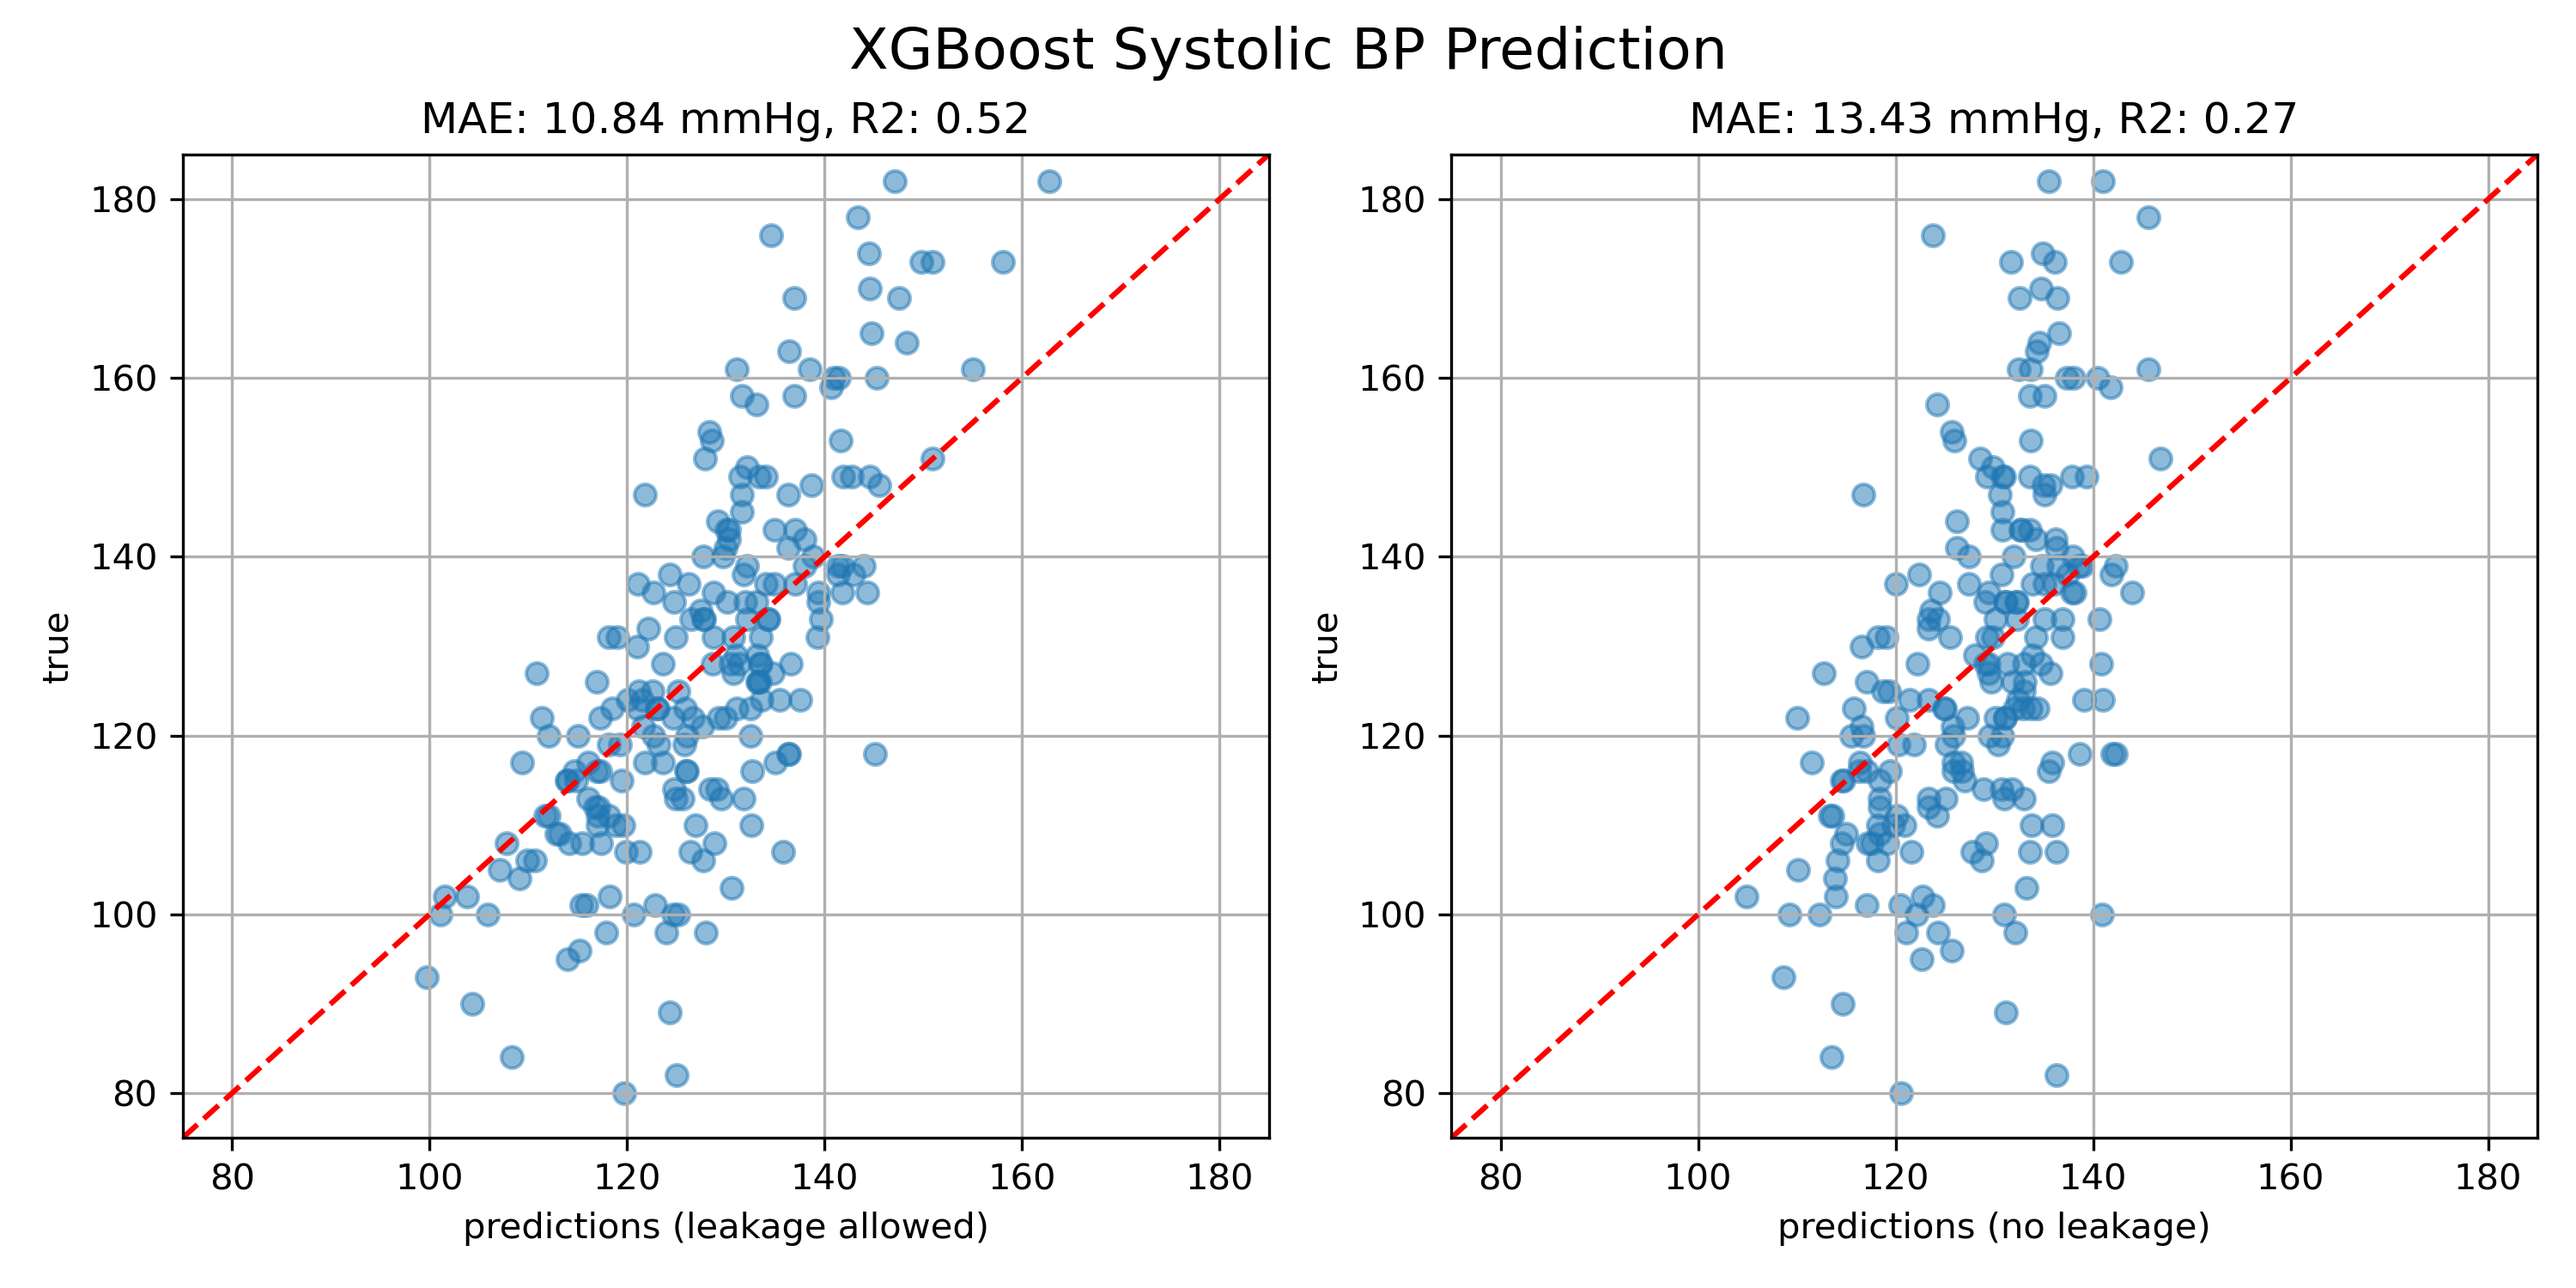
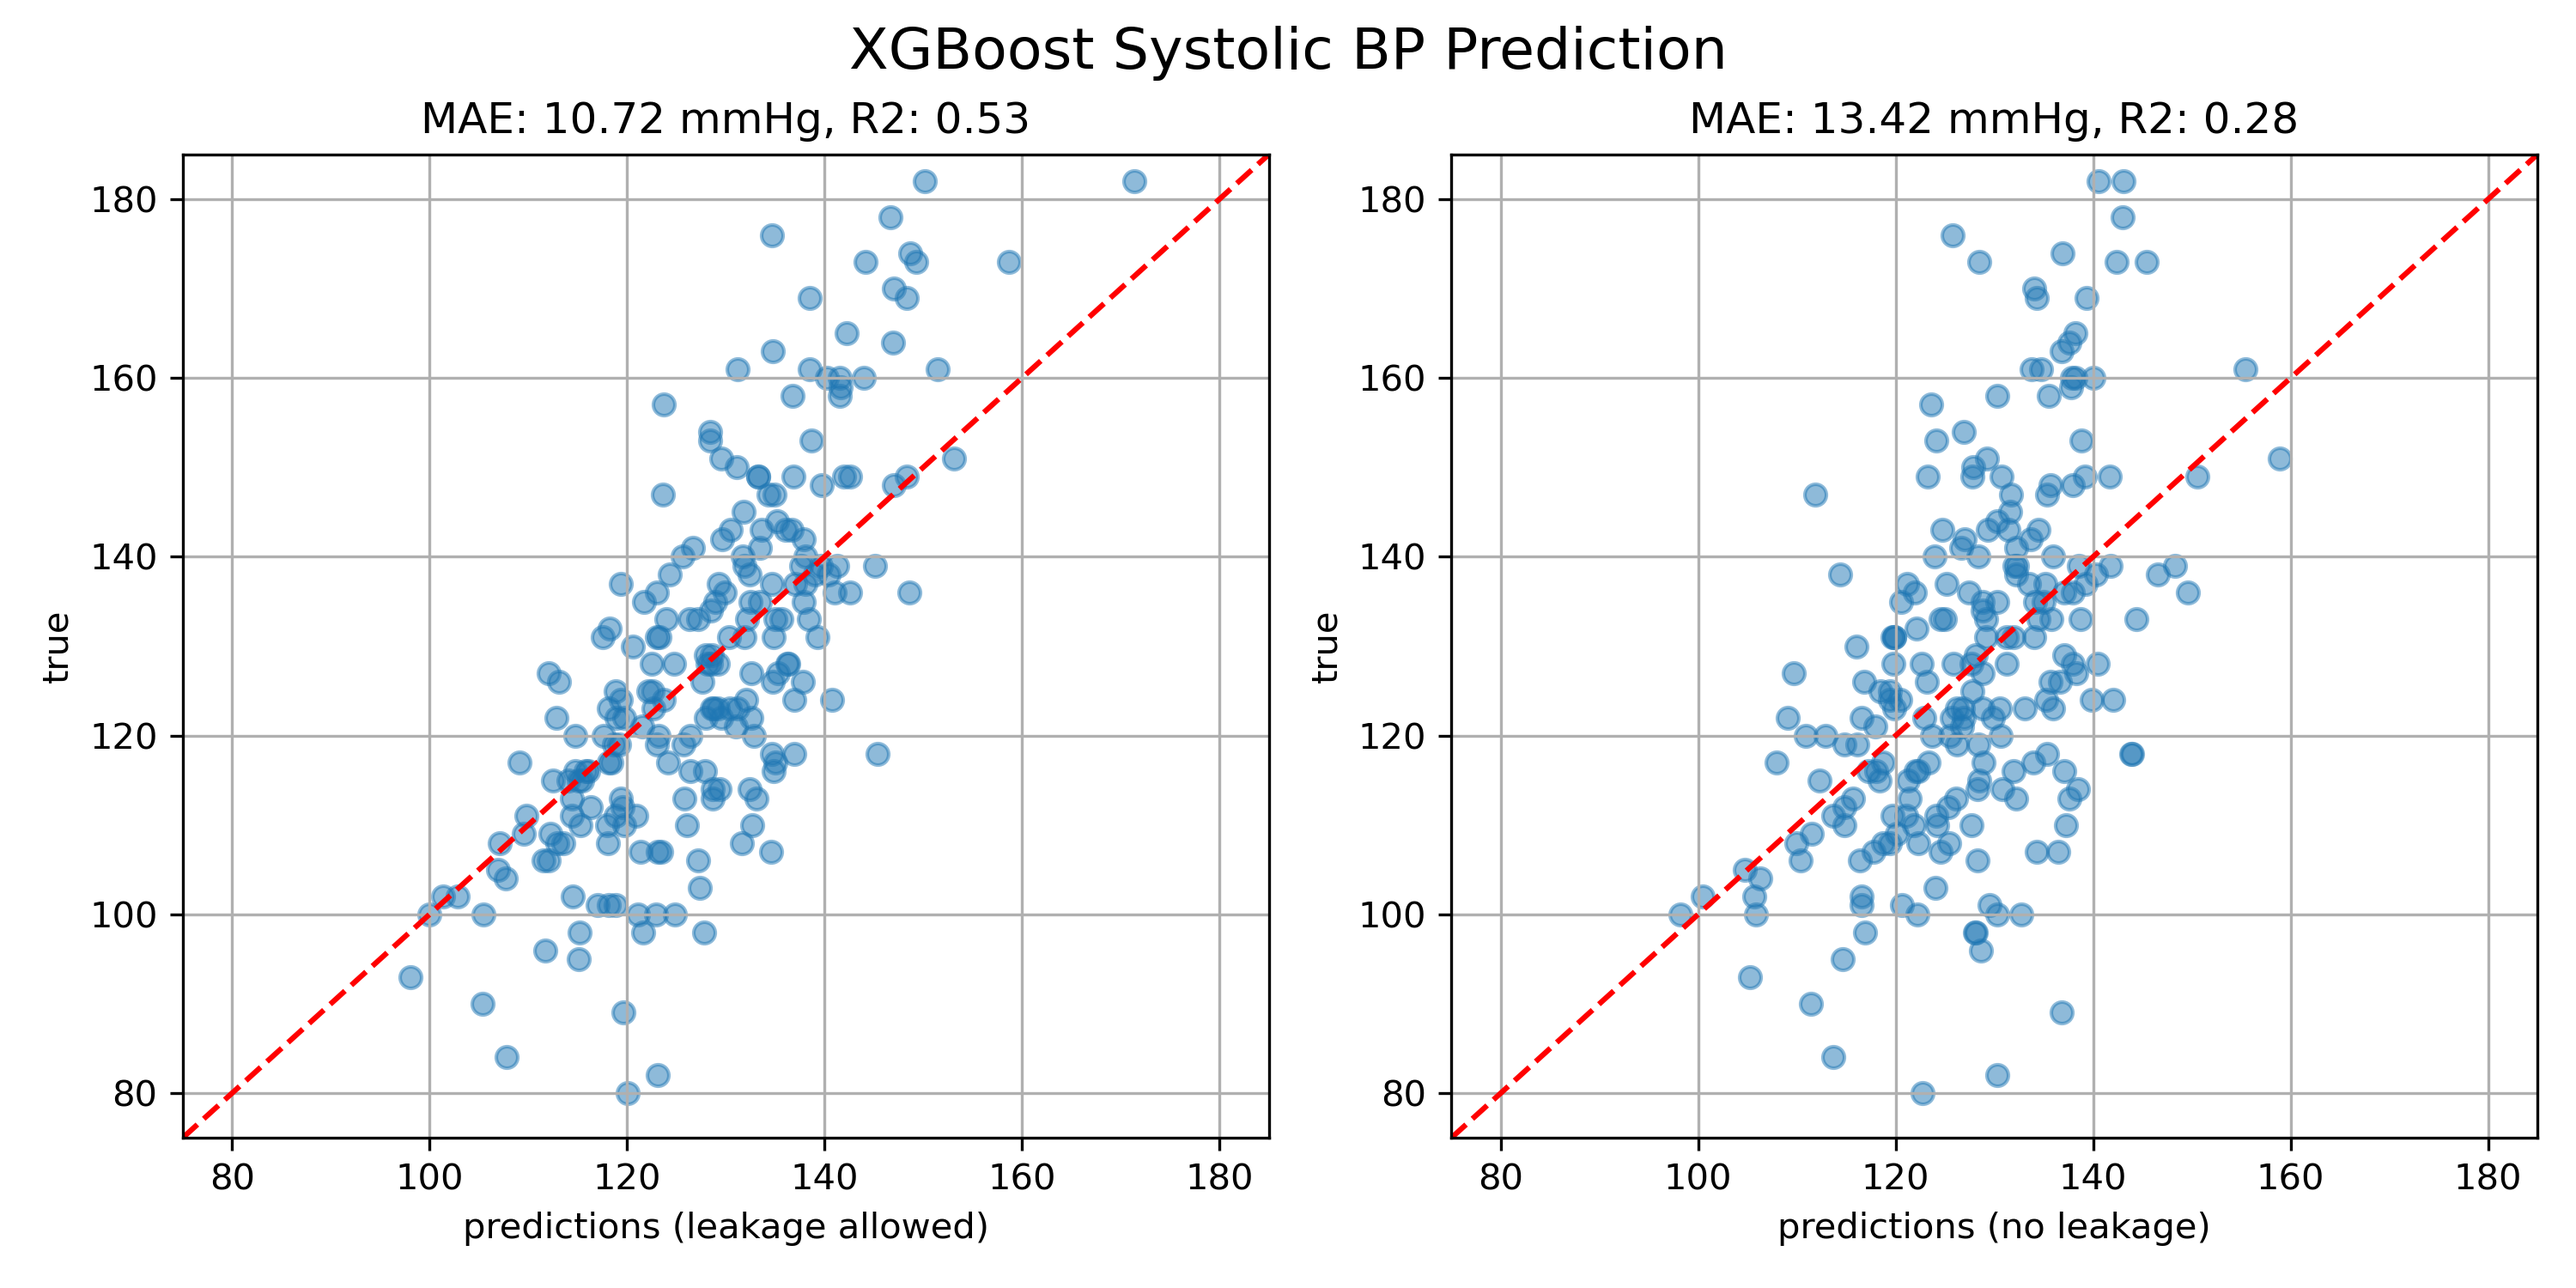
update post

diff --git a/content/blog/ppg-blood-pressure/index.md b/content/blog/ppg-blood-pressure/index.md
@@ -23,26 +23,47 @@ tags:
 
 PPG signals are collected from optical sensors on smart watches and pulse oximeters to measure heart rate and blood oxygen levels. New research has indicated the shape of the PPG waveform contains information on blood pressure, which could allow for "cuff-less" blood pressure measurements. This project lays out the pulse wave analysis method, that is how to process raw PPG signals into blood pressure values using machine learning.
 
+Code for this analysis can be found in the PPG_to_BP github [repository](https://physionet.org/content/pcst/1.0.0/).
+
 ## Methods
 
-The goal in this post is to reproduce similar results to the paper by Gonzalez et al. (2023), which proposes a baseline for ... 
+The goal here is to reproduce similar results to the paper by [Gonzalez et al. (2023)](https://pubmed.ncbi.nlm.nih.gov/36944668/), which proposes a baseline for estimating blood pressure from PPGs using a variety of ML algorithms. There are many ways to approach this, but for now, I will extract features from the PPG waveforms using manually derived "biomarkers", or features extracted from the signal and its 1st, 2nd and 3rd derivatives. Then those features will be used as predictors in a regression-type machine learning model, with systolic or diastolic blood pressure as the response. Another approach that will be explored in a follow-up post is using a convolutional neural network to extract features, or an embeddeding representing the pulse shapes.
 
-For now, we will extract features from the PPG waveforms using manually derived "biomarkers", or features extracted from the signal and its 1st, 2nd and 3rd derivatives. The processing pipeline includes 
+The signal processing pipeline includes 
 
-1. Apply a Chebyshev bandpass filter to remove noise, find the derivatives
+1. Apply a Chebyshev bandpass filter to remove noise, calculate and smooth the derivatives
 2. Segment pulses using a beat detection algorithm
-3. Find "fiducial" points in the signal and derivatives
+3. Find "fiducial" points in the signal and its derivatives
 4. Process the fiducial points into "biomarkers"
 5. Fit a machine learning algorithm using the biomarkers as predictors, and the systolic/diastolic blood pressure values as the response
 
-For steps 1 to 4, the `pyPPG` library is used as a starter. This library was developed by ...
+For steps 1, 3 and 4, the [pyPPG library](https://pyppg.readthedocs.io/en/latest/) developed by Peter Charlton is used as a starter. pyPPG was originally built to analyze longer signal segments and take advantage of correlation between sequential pulses for things like beat detection and signal quality index, but it does not work well with shorter segments like those in the PPGBP dataset described below. An assumption and goal of the analysis presented here is that a *single* pulse waveform can be analyzed to predict blood pressure. A custom library of functions was built to interface with pyPPG to work with short segments, and can be found as `PPG_to_BP_lib.py` in the github [repository](https://physionet.org/content/pcst/1.0.0/). Also, the QPPG beat detection algorithm published as Matlab code in the [PhysioNet Cardiovascular Signal Toolbox](https://physionet.org/content/pcst/1.0.0/) is modified for shorter pulses in this custom library.
 
-![Biomarkers](Biomarkers_pyppg.png)
+A total of 15 fiducial points are found on the PPG and its derivatives, which are used to calculate 91 biomarkers. Figure 1 illustrates fiducial points in a smoothed PPG signal, and some example biomarker calculations. For example, systolic peak time is the time difference between the systolic peak (sp) and pulse onset.
+
+{{< figure src="Biomarkers_pyppg.png" caption="**Figure 1.** Example fiducial points and biomarker calculations in the PPG pulse (source: Goda et al. [2023](https://iopscience.iop.org/article/10.1088/1361-6579/ad33a2))." >}}
+
+At this point a variety of machine learning algorithms can be trained using the 91 biomarkers as predictors, and blood pressure as the response. As far as more traditional ML algorithms, I've found nonlinear algorithms like RandomForest, XGBoost, and Multi-layer perceptron to perform best and give similar results, so the results of XGBoost will be presented in this post for simplicity.
 
 ## Dataset
 
+High-quality PPG signals were collected from 219 healthy and hypertensive patients in a 15-minute-long standard protocol using a specific fingertip PPG sensor (SEP9AF-2). In the standard protocol, the subjects rested for 10 minutes. Then blood pressure measurements were performed with a cuff, and 3x 2.1-second PPG segments were
+recorded. Each subject has a single blood pressure measurement with 2.1 x 3 = 6.3 seconds of PPG signals (source: [Liang et al 2018](https://www.nature.com/articles/sdata201820)).
+
 ## Results
-![XGBoost model](XGBoost_SBP_Predictions_Leak_vs_NoLeak.png)
+
+Cross-validation was used to measure performance with and without data leakage, that is allowing pulses from the same subject or segment to be in both the training and test sets. Data leakage allows an ML algorithm to overfit to the nearby pulse shapes, which would cause prediction error when generalizing the algorithm to new patients. As Gonzalez (2023) and others have pointed out, data leakage is commonly overlooked in BP, and may amount to misleading results. sklearn's RandomizedSearchCV was used to tune a few of the XGBoost parameters including n_estimators,max_depth, learning_rate, and min_child_weight. 
+
+Figure 2 shows the XGBoost model prediction results. Both CV methods result in better performance than the mean SBP of the dataset (16.81 mmHg), with the leak-CV method performing markedly better. These results are also very close to those presented in the benchmark paper by Gonzalez.
+
+{{< figure src="XGBoost_SBP_Predictions_Leak_vs_NoLeak.png" caption="**Figure 2.** Systolic blood pressure prediction with leak and no-leak cross-validation schemes." >}}
+
+A more qualitive thing we can observe in the no-leak-CV result is that the algorithm performs poorly at predicting low and high blood pressures, it is essentially predicting most of them within a normal range at about 110 to 140 mmHg. Even though the algorithm is an improvement over the mean SBP, it provides very little or even misleading information for the cases that matter, i.e. patients with abnormally high blood pressure. The PPGBP dataset is high quality in that it comes from a controlled experiment, but the number of points at extreme high and low blood pressures is low.
+
+The only current product I am aware of that uses PPG to estimate blood pressure is [hilo](https://hilo.com/), which has only recently received market clearance. This device requires monthly calibration. This pulse wave analysis may work better when calibrated to each person or site, because of the unnaccountable differences between individuals with only PPG measurements.
+
+Although the prediction results aren't great, they indicate there could be some association between the PPG shape and blood pressure.  Similar results were found with other datasets like [SENSORS](https://www.mdpi.com/1424-8220/21/6/2167). Future work might include a weighting or sampling of the more extreme blood pressure values.
+
 
 ## References
 
@@ -50,4 +71,8 @@ González, Sergio, Wan-Ting Hsieh, and Trista Pei-Chun Chen. "A benchmark for ma
 
 Goda, Márton Áron, Peter H. Charlton and Joachim A. Behar. “pyPPG: a Python toolbox for comprehensive photoplethysmography signal analysis.” Physiological Measurement 45 (2023)
 
-Vest, Adriana Nicholson, Giulia Da Poian, Qiao Li, Chengyu Liu, Shamim Nemati, Amit J. Shah and Gari D. CliQord. “An open source benchmarked toolbox for cardiovascular waveform and interval analysis.” Physiological Measurement 39 (2018)
+Vest, Adriana Nicholson, Giulia Da Poian, Qiao Li, Chengyu Liu, Shamim Nemati, Amit J. Shah and Gari D. Clifford. “An open source benchmarked toolbox for cardiovascular waveform and interval analysis.” Physiological Measurement 39 (2018)
+
+Liang, Yongbo, Zhencheng Chen, Guiyong Liu and Mohamed Elgendi. “A new, short-recorded photoplethysmogram dataset for blood pressure monitoring in China.” Scientific Data 5 (2018)
+
+Aguirre, Nicolas, Edith Grall-Maës, Leandro J. Cymberknop, and Ricardo L. Armentano. "Blood pressure morphology assessment from photoplethysmogram and demographic information using deep learning with attention mechanism." Sensors 21, no. 6 (2021): 2167.

diff --git a/content/authors/admin/_index.md b/content/authors/admin/_index.md
@@ -59,4 +59,4 @@ highlight_name: true
 website: ""
 ---
 
-Posts related to machine learning, statistical modeling, and biosignal processing.
+Exploring topics related to machine learning, statistical modeling, biosignal processing, and natural language processing.
